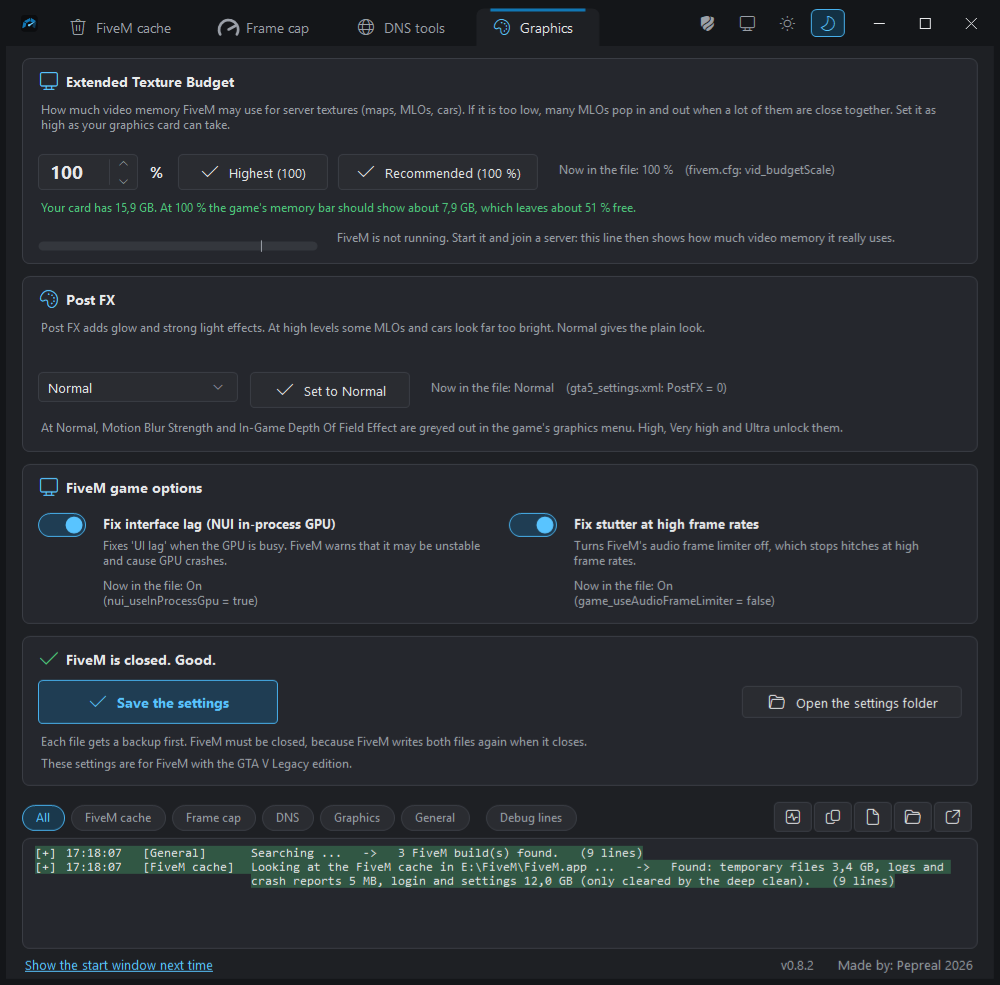
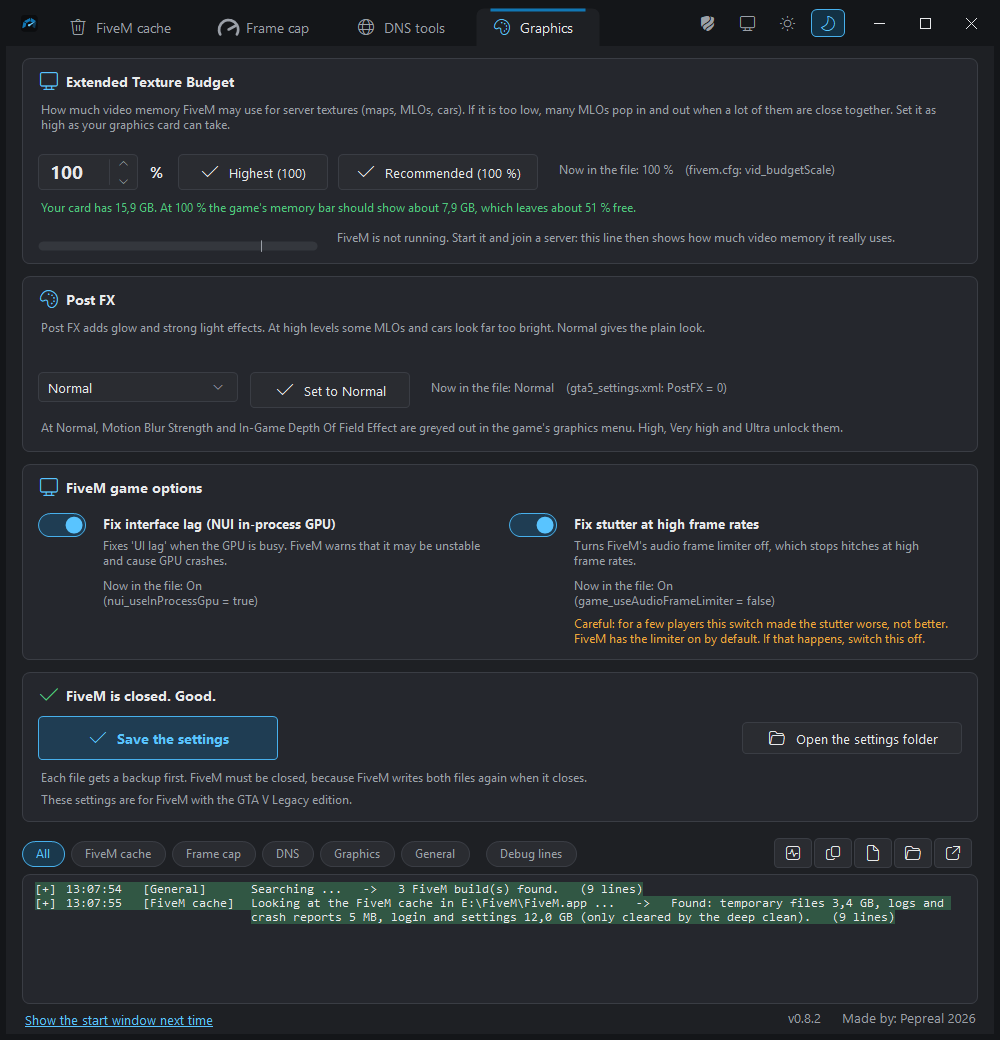
FiveM Toolbox (after 0.8.2) - small warning under the stutter fix
- A small orange warning under "Fix stutter at high frame rates": for a few players the switch made the stutter worse. FiveM has the audio frame limiter on by default. The interface lag switch gets no warning. Five languages.
- The game options card and the card below it follow the height of the text.
- The window starts 1040 px high (was 985) so the Graphics tab still fits.
- README: one sentence about the warning, fresh Graphics picture.
- --gfx-ui-test: 3 more checks (5 planted faults caught).

diff --git a/source/FiveMToolbox.cs b/source/FiveMToolbox.cs
@@ -6396,7 +6396,7 @@ namespace FiveMFrameCap
         ActivityCard activity;
         int currentPage = Info.FirstPage;
         int footerGen = 0;
-        NumBox gfxBudget; DropBox gfxPost; Label gfxBudgetNow, gfxPostNow, gfxUiNow, gfxStutterNow, gfxBudgetHint, gfxMeterText; MeterBar gfxMeterBar; bool meterReading; string meterLuid; long meterTotal; VramTracker meterTracker = new VramTracker(); ToggleSwitch gfxUiFix, gfxStutterFix; Card gfxCard; IconButton gfxRecommend; int gfxRecN = -1; IconButton gfxApply, gfxClose, gfxHighest, gfxNormal, gfxOpen;
+        NumBox gfxBudget; DropBox gfxPost; Label gfxBudgetNow, gfxPostNow, gfxUiNow, gfxStutterNow, gfxBudgetHint, gfxMeterText; MeterBar gfxMeterBar; bool meterReading; string meterLuid; long meterTotal; VramTracker meterTracker = new VramTracker(); ToggleSwitch gfxUiFix, gfxStutterFix; Label gfxStutterWarn; Card gfxCard, gfxOptCard; IconButton gfxRecommend; int gfxRecN = -1; IconButton gfxApply, gfxClose, gfxHighest, gfxNormal, gfxOpen;
         string cacheMeasuredRoot = null;
         DateTime cacheMeasuredAt = DateTime.MinValue;
         GlyphButton themeSystem, themeLight, themeDark;
@@ -6526,7 +6526,7 @@ namespace FiveMFrameCap
             Text = Info.AppName + " " + Info.Version + (DnsTool.IsAdmin() ? " - " + Loc.T("administrator") : "") + Finder.TestModeText();
             Icon = Info.AppIcon();
             Rectangle wa = Dpi.LogicalWorkArea();
-            Width = Math.Min(1000, wa.Width - 40); Height = Math.Min(985, wa.Height - 30);
+            Width = Math.Min(1000, wa.Width - 40); Height = Math.Min(1040, wa.Height - 30);
             MinimumSize = new Size(960, 560);
             StartPosition = FormStartPosition.CenterScreen;
             Font = new Font("Segoe UI", 9.5f);
@@ -7316,8 +7316,8 @@ namespace FiveMFrameCap
             cP.Controls.Add(Small("At Normal, Motion Blur Strength and In-Game Depth Of Field Effect are greyed out in the game's graphics menu. High, Very high and Ultra unlock them.", 16, 144, CardW - 32, 22, "muted"));
 
             // the two options of FiveM's own Settings menu that matter before you join a server (two columns: a switch, a title, what it does, what the file says now)
-            Card cN = NewCard("FiveM game options", Ico.Monitor, 418, 160); pageGfx.Controls.Add(cN);
-            int colW = (CardW - 32 - 24) / 2;
+            Card cN = NewCard("FiveM game options", Ico.Monitor, 418, 160); pageGfx.Controls.Add(cN); gfxOptCard = cN;
+            int colW = (CardW - 32 - 24) / 2; int warnBottom = 152;
             Font bold = new Font("Segoe UI", 9.5f, FontStyle.Bold);
             for (int col = 0; col < 2; col++)
             {
@@ -7328,10 +7328,16 @@ namespace FiveMFrameCap
                 UiUtil.Wrapped(cN, col == 0 ? "Fixes 'UI lag' when the GPU is busy. FiveM warns that it may be unstable and cause GPU crashes." : "Turns FiveM's audio frame limiter off, which stops hitches at high frame rates.", x0 + 62, 74, colW - 62, small, "muted", out dsc);
                 Label now = Small("", x0 + 62, 114, colW - 62, 38, "muted"); cN.Controls.Add(now);
                 if (col == 0) { gfxUiFix = sw0; gfxUiNow = now; tip.SetToolTip(sw0, Loc.T("Needs a restart of FiveM. In FiveM's own settings this is the box \"NUI in-process GPU\".")); }
-                else { gfxStutterFix = sw0; gfxStutterNow = now; tip.SetToolTip(sw0, Loc.T("In FiveM's own settings this is the box \"Audio frame limiter\". It is unchecked when this switch is on.")); }
+                else
+                {
+                    gfxStutterFix = sw0; gfxStutterNow = now; tip.SetToolTip(sw0, Loc.T("In FiveM's own settings this is the box \"Audio frame limiter\". It is unchecked when this switch is on."));
+                    // a few players got the opposite effect from this option (more stutter): a small orange warning under it
+                    warnBottom = UiUtil.Wrapped(cN, "Careful: for a few players this switch made the stutter worse, not better. FiveM has the limiter on by default. If that happens, switch this off.", x0 + 62, 152, colW - 62, small, "warn", out gfxStutterWarn);
+                }
             }
 
-            Card cA = NewCard("", Ico.Accept, 590, 150); pageGfx.Controls.Add(cA); gfxCard = cA;
+            cN.Height = Math.Max(160, warnBottom + 10);
+            Card cA = NewCard("", Ico.Accept, cN.Top + cN.Height + 12, 150); pageGfx.Controls.Add(cA); gfxCard = cA;
             int sw = FitW("Save the settings", 240);
             gfxApply = Btn(Ico.Accept, "Save the settings", 16, 44, sw, 44); gfxApply.Tag = "primary"; gfxApply.Font = new Font("Segoe UI", 10.5f, FontStyle.Bold); gfxApply.Click += GfxApplyClick; cA.Controls.Add(gfxApply);
             int cw = FitW("Close FiveM for me", 210);
@@ -7675,6 +7681,10 @@ namespace FiveMFrameCap
         // for --gfx-ui-test only
         public List<string> TestGfxSave(int b, int p, bool ui, bool fix) { return GfxSaveCore(b, p, ui, fix, null); }
         public bool[] TestGfxSwitches() { return new bool[] { gfxUiFix.Checked, gfxStutterFix.Checked }; }
+        public string[] TestStutterWarn() { return new string[] { gfxStutterWarn.Text, (string)gfxStutterWarn.Tag }; }
+        public int TestOptionsWarnCount() { int n = 0; foreach (Control c in gfxOptCard.Controls) if (c is Label && (c.Tag as string) == "warn") n++; return n; }
+        // top and bottom of the warning, bottom of the "now in the file" line, height of the options card, top of the card below it, bottom of the options card
+        public int[] TestStutterWarnBox() { return new int[] { gfxStutterWarn.Top, gfxStutterWarn.Bottom, gfxStutterNow.Bottom, gfxOptCard.Height, gfxCard.Top, gfxOptCard.Bottom }; }
         public void TestGfxRefresh() { gfxInit = false; RefreshGfx(); }
 
         // ---------------------------------------------------------------- FiveM cache page
@@ -8826,6 +8836,11 @@ namespace FiveMFrameCap
                            "In den FiveM-Einstellungen ist das die Option \"Audioframe-Limitierung\". Sie ist abgewählt, wenn dieser Schalter an ist.",
                            "Dans les réglages de FiveM, c'est la case \"Limiteur de trame audio\". Elle est décochée quand cet interrupteur est activé.",
                            "En los ajustes de FiveM es la casilla \"Limitador de fotogramas de audio\". Está desmarcada cuando este interruptor está activado." },
+            new string[] { "Careful: for a few players this switch made the stutter worse, not better. FiveM has the limiter on by default. If that happens, switch this off.",
+                           "Let op: bij een paar spelers maakte deze schakelaar het haperen erger in plaats van beter. In FiveM staat de begrenzer standaard aan. Gebeurt dat, zet de schakelaar dan weer uit.",
+                           "Achtung: Bei einigen Spielern hat dieser Schalter das Ruckeln verschlimmert statt verbessert. In FiveM ist der Limiter standardmäßig an. Dann schalten Sie den Schalter wieder aus.",
+                           "Attention : chez quelques joueurs, cet interrupteur a aggravé les saccades au lieu de les réduire. Dans FiveM, le limiteur est activé par défaut. Dans ce cas, désactivez cet interrupteur.",
+                           "Cuidado: en algunos jugadores este interruptor empeoró los tirones en vez de mejorarlos. En FiveM el limitador está activado por defecto. Si pasa, desactiva este interruptor." },
             new string[] { "On", "Aan", "An", "Activé", "Activado" },
             new string[] { "Off", "Uit", "Aus", "Désactivé", "Desactivado" },
             new string[] { "The interface lag fix is now on.", "De interface-lag-oplossing staat nu aan.", "Die Oberflächen-Lag-Korrektur ist jetzt an.", "La correction du lag de l'interface est maintenant activée.", "La corrección del lag de la interfaz está ahora activada." },
@@ -10280,6 +10295,10 @@ namespace FiveMFrameCap
                     {
                         bool[] sw = uf.TestGfxSwitches();
                         uck(sw[0] && sw[1], "the two switches start ON when the file has nui_useInProcessGpu true and game_useAudioFrameLimiter false");
+                        string[] sww = uf.TestStutterWarn(); int[] swb = uf.TestStutterWarnBox();
+                        uck(uf.TestOptionsWarnCount() == 1, "there is only ONE warning in the game options card: it is not under the interface lag fix");
+                        uck(sww[0].StartsWith("Careful: for a few players this switch made the stutter worse") && sww[1] == "warn", "the stutter fix has a small orange warning under it (" + sww[0] + ")");
+                        uck(swb[0] >= swb[2] && swb[1] <= swb[3] && swb[5] < swb[4], "the warning stands under the \"now in the file\" line and inside its card, and the next card starts below it (" + string.Join(",", Array.ConvertAll(swb, delegate(int v) { return v.ToString(); })) + ")");
                         List<string> parts = uf.TestGfxSave(20, 0, false, true);
                         uck(parts.Count == 1 && parts[0] == "The interface lag fix is now off." && GfxTool.ReadFlag(GfxTool.UiFixName) == 0 && GfxTool.ReadFlag(GfxTool.LimiterName) == 0, "interface lag fix off: only nui_useInProcessGpu changed (false), the limiter stays off (" + string.Join("|", parts.ToArray()) + ")");
                         parts = uf.TestGfxSave(20, 0, false, false);

diff --git a/README.md b/README.md
@@ -49,7 +49,7 @@ Reads FiveM's settings files and changes one line at a time. FiveM must be close
 - **Extended Texture Budget** (`vid_budgetScale` in `fivem.cfg`), with a "Highest" button and a "Recommended" button. The advice depends on the video memory of your card and is shown green, orange or red. It is an estimate.
 - **Live meter:** how much video memory the FiveM game really uses on your dedicated card, read from Windows. Needs Windows 10 version 1709 or newer.
 - **Post FX** (`gta5_settings.xml`): set it to Normal for MLOs and cars that look far too bright.
-- **Two game options** from FiveM's own Settings menu: "Fix interface lag" (`nui_useInProcessGpu`) and "Fix stutter at high frame rates" (the Audio frame limiter off, `game_useAudioFrameLimiter`). FiveM itself warns that the first one may cause GPU crashes. The Graphics tab is for FiveM with the GTA V Legacy edition.
+- **Two game options** from FiveM's own Settings menu: "Fix interface lag" (`nui_useInProcessGpu`) and "Fix stutter at high frame rates" (the Audio frame limiter off, `game_useAudioFrameLimiter`). FiveM itself warns that the first one may cause GPU crashes. For a few players the second one made the stutter worse, so the Toolbox shows a small warning under it. The Graphics tab is for FiveM with the GTA V Legacy edition.
 
 The window is in English, Dutch, German, French and Spanish. It follows the Windows language. To force a language, put a line like `language=nl` (or `de`, `fr`, `es`, `en`) in `settings.txt` in `%LOCALAPPDATA%\FiveMToolbox`.
 

diff --git a/CHANGELOG.md b/CHANGELOG.md
@@ -5,6 +5,12 @@ Tags: NEW, CHANGED, FIXED.
 
 ---
 
+## Unreleased
+
+**NEW** - **A small orange warning under "Fix stutter at high frame rates".** *For a few players this switch made the stutter worse, not better. FiveM has the audio frame limiter on by default, and this switch turns it off. The warning says so, and tells you to switch the fix off again if that happens. The "Fix interface lag" switch gets no warning. The text is in all five languages.*
+
+**CHANGED** - **The window starts a little taller (1040 px, or as high as the screen allows).** *The warning makes the Graphics tab a few lines longer. The taller window keeps the whole tab on screen without a scroll bar.*
+
 ## v0.8.2 - 2026-11-14 (latest)
 
 **CHANGED** - **"Made by: Pepreal 2026" in the main window is a link to the GitHub page of the program.** *A click opens the page. It looks the same as before (grey) and it is underlined when the mouse is over it. The version in front of it is plain text. The notice about a newer version stays an orange line next to the version.*
